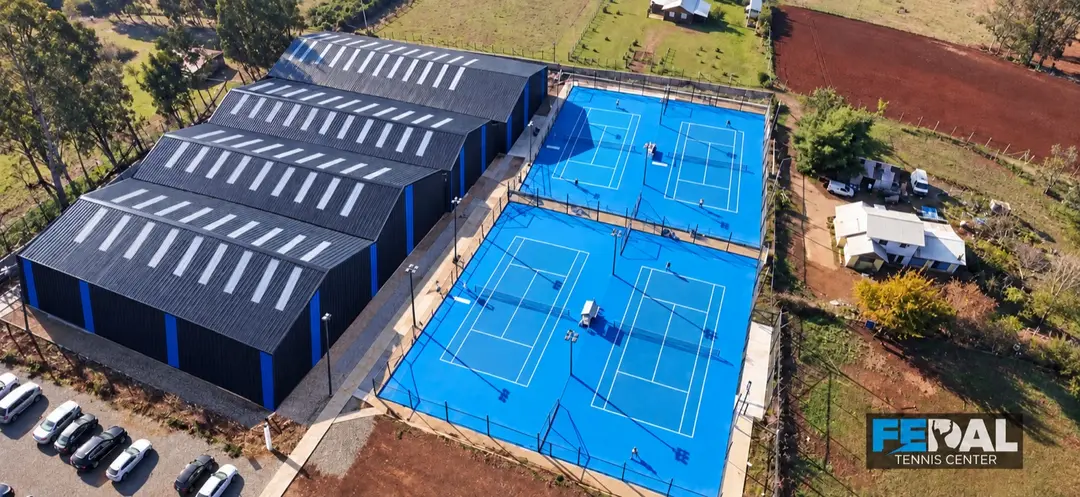
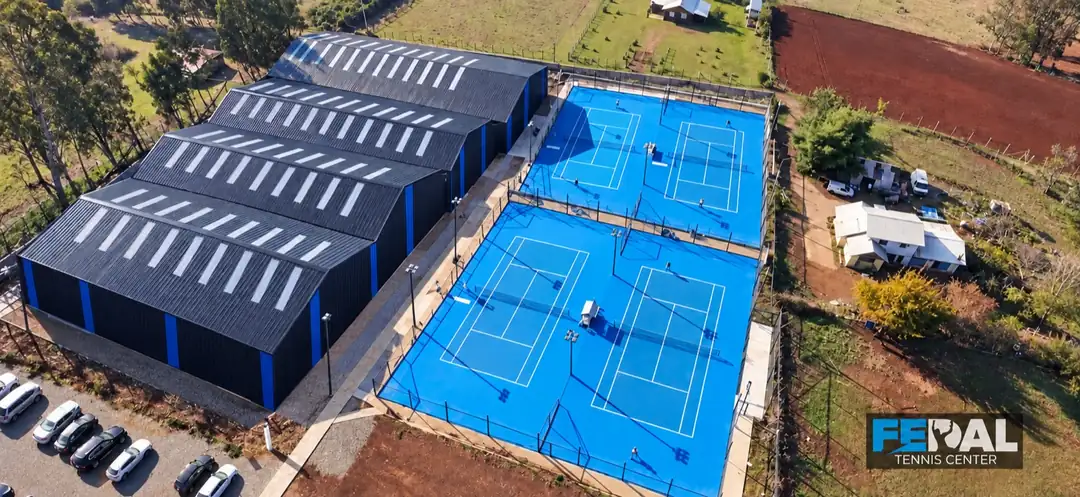
La portada ya no pide la foto de las canchas al cargar, y su foto principal pesa un 20 % menos (T370)
El LCP de la portada era el único de las tres páginas medidas sobre
2,5 s (2,88 s con el perfil móvil de Lighthouse). La cascada mostraba la
foto principal compitiendo por el ancho de banda con todo lo demás.

- La foto de «Nuestras canchas» va en @defer (on viewport) con un margen
  de 600 px y un hueco de la misma proporción. Está tres bandas más
  abajo y es diferida, pero con conexión lenta Chrome la pedía al cargar.
- La vista aérea (el-club) sale con calidad 60 en vez de 75: 1080 px
  pasa de 112 a 89 KB y 1600 px de 195 a 153 KB. Bajo el velo azul de la
  portada no se nota (capturas a 390 y 1440 px). Una prueba fija en 95 KB
  el tope de las fotos de cabecera en 1080 px.

Medido antes y después con las vueltas intercaladas (la máquina tenía
carga): mediana 3,44 → 3,11 s con DPR 1,75 y 4,45 → 3,90 s con DPR 3.
Con la máquina libre, el antes daba 2,88 s.

diff --git a/apps/web/src/app/inicio/inicio.spec.ts b/apps/web/src/app/inicio/inicio.spec.ts
@@ -1,7 +1,12 @@
 import { provideHttpClient } from '@angular/common/http';
 import { provideHttpClientTesting } from '@angular/common/http/testing';
 import { provideRouter } from '@angular/router';
-import { ComponentFixture, TestBed } from '@angular/core/testing';
+import {
+  ComponentFixture,
+  DeferBlockBehavior,
+  DeferBlockState,
+  TestBed,
+} from '@angular/core/testing';
 import { signal } from '@angular/core';
 import { TestbedHarnessEnvironment } from '@angular/cdk/testing/testbed';
 import { MatButtonHarness } from '@angular/material/button/testing';
@@ -57,8 +62,10 @@ describe('Inicio', () => {
     torneos: TorneoPublico[] | Error,
     delDia: (fecha: string) => Promise<GrillaDeCancha[]> = () => Promise.resolve([]),
     // Sin usuario, nadie entró. Con él, basta lo que la portada mira: la ficha de socio.
-    { esperar, tienda, usuario = null, club = {} } = { esperar: true } as {
+    { esperar, tienda, usuario = null, club = {}, diferidos } = { esperar: true } as {
       esperar: boolean;
+      /** Manual: los `@defer` se abren a mano, como en el prerender antes de su disparador. */
+      diferidos?: DeferBlockBehavior;
       tienda?: LugarDelClub;
       usuario?: Pick<UsuarioActual, 'id' | 'socioId'> | null;
       /** Lo demás del club: la dirección, para los datos estructurados (T357). */
@@ -68,6 +75,7 @@ describe('Inicio', () => {
     const vacio: LugarDelClub = { descripcion: '', horario: '', whatsapp: '', fotos: [] };
     TestBed.resetTestingModule();
     TestBed.configureTestingModule({
+      deferBlockBehavior: diferidos,
       providers: [
         provideRouter([]),
         // Los datos estructurados piden el horario (T357), solo si el club tiene dirección.
@@ -349,6 +357,26 @@ describe('Inicio', () => {
 
     expect(cifras).toEqual(['2', '1', '1']);
     expect(banda.textContent).toContain(enPesos(9_000));
+  });
+
+  // T370 (SPEC-seo.md, criterio 8). La foto de «Nuestras canchas» está tres bandas más abajo y es
+  // diferida, pero con conexión lenta Chrome la pedía al cargar, junto con la foto principal, y le
+  // quitaba ancho de banda a la que mide el LCP.
+  it('**la foto de «Nuestras canchas» no está en la página hasta que se acerca a la vista**', async () => {
+    await montar([], undefined, { esperar: true, diferidos: DeferBlockBehavior.Manual });
+    const banda = () => elemento().querySelector('[aria-labelledby="canchas"]') as HTMLElement;
+
+    expect(banda().querySelector('img')).toBeNull();
+    // El hueco ocupa lo mismo que la foto: al llegar, no mueve nada.
+    const hueco = banda().querySelector('[data-hueco-de-foto]') as HTMLElement;
+    expect(hueco.style.aspectRatio.replace(/\s/g, '')).toBe('4/3');
+    expect(hueco.classList).toContain('corte-foto');
+
+    for (const bloque of await fixture.getDeferBlocks())
+      await bloque.render(DeferBlockState.Complete);
+
+    expect(banda().querySelector('img')?.getAttribute('src')).toContain('/fotos/malla');
+    expect(banda().querySelector('[data-hueco-de-foto]')).toBeNull();
   });
 
   // La revisión de la Fase 2 del SEO: la portada prerenderizada no llama a la API (SPEC-seo.md

diff --git a/apps/web/src/app/inicio/inicio.ts b/apps/web/src/app/inicio/inicio.ts
@@ -306,14 +306,21 @@ import { publicarElClub } from '../seo/datos-estructurados';
       class="mt-16 grid gap-8 aparece-al-pasar lg:grid-cols-[1.1fr_1fr] lg:items-center"
       aria-labelledby="canchas"
     >
-      <!-- El corte en diagonal es el canto de un gráfico de transmisión (TV3.4). -->
-      <app-foto
-        descripcion="Una cancha al aire libre a la altura de la red, con los galpones de las
-                     canchas techadas al fondo"
-        src="/fotos/malla.jpg"
-        proporcion="4/3"
-        claseCaja="corte-foto"
-      />
+      <!-- El corte en diagonal es el canto de un gráfico de transmisión (TV3.4).
+           En @defer hasta que se acerca a la vista (T370): está tres bandas más abajo, y con
+           conexión lenta Chrome pedía esta foto diferida al cargar, junto con la principal, y le
+           quitaba ancho de banda a la que mide el LCP. El hueco ocupa lo mismo que la foto. -->
+      @defer (on viewport({ rootMargin: '600px' })) {
+        <app-foto
+          descripcion="Una cancha al aire libre a la altura de la red, con los galpones de las
+                       canchas techadas al fondo"
+          src="/fotos/malla.jpg"
+          proporcion="4/3"
+          claseCaja="corte-foto"
+        />
+      } @placeholder {
+        <div data-hueco-de-foto class="corte-foto w-full bg-muted" style="aspect-ratio: 4/3"></div>
+      }
 
       <div>
         <h2 id="canchas" class="titular text-5xl sm:text-6xl">Nuestras canchas</h2>

diff --git a/apps/web/src/app/ui/foto.spec.ts b/apps/web/src/app/ui/foto.spec.ts
@@ -1,4 +1,4 @@
-import { existsSync, readdirSync } from 'node:fs';
+import { existsSync, readdirSync, statSync } from 'node:fs';
 import { join } from 'node:path';
 
 import { Component, signal } from '@angular/core';
@@ -162,4 +162,15 @@ describe('las variantes de public/fotos', () => {
       expect(existsSync(join(carpeta, foto.replace(/\.jpg$/, `-${ancho}.webp`)))).toBe(true);
     }
   });
+
+  // T370 (SPEC-seo.md, criterio 8). La foto de cabecera es la que mide el LCP de su página, y en un
+  // teléfono con 4G lenta baja junto con el JavaScript: con la vista aérea de la portada en 112 KB
+  // (1080 px), el LCP no bajaba de 2,5 s. Las tres páginas que se miden: la portada, El club y Clases.
+  it.each(['el-club', 'portada', 'ninos'])(
+    '**la foto de cabecera %s, en 1080 px, pesa 95 KB o menos**',
+    (foto) => {
+      const kb = statSync(join(carpeta, `${foto}-1080.webp`)).size / 1024;
+      expect(Math.round(kb)).toBeLessThanOrEqual(95);
+    },
+  );
 });
